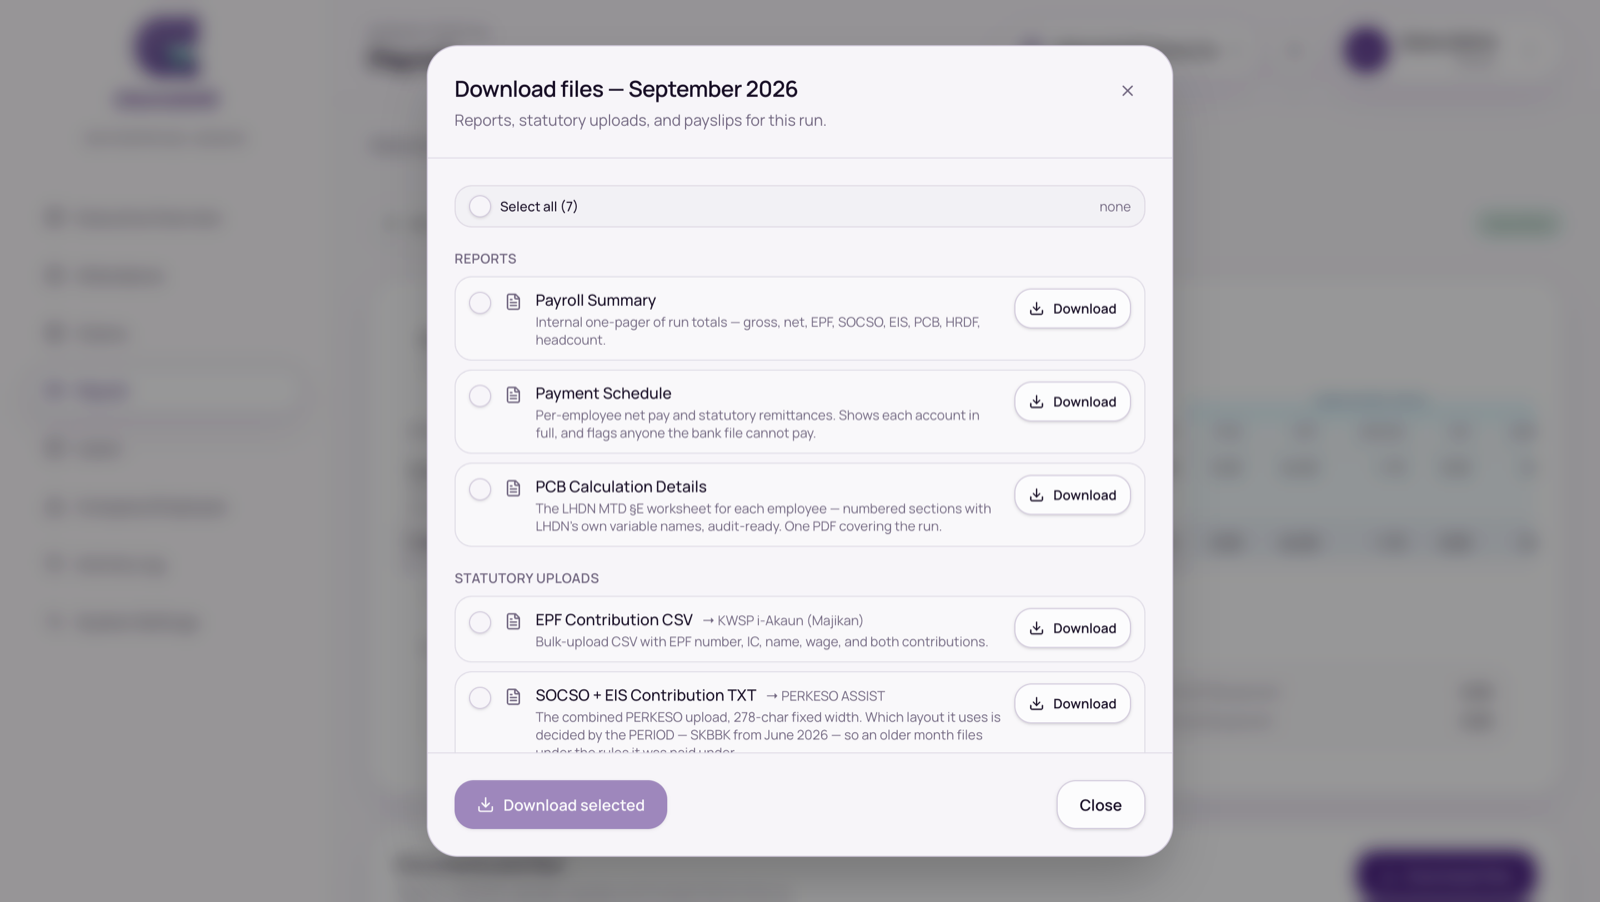
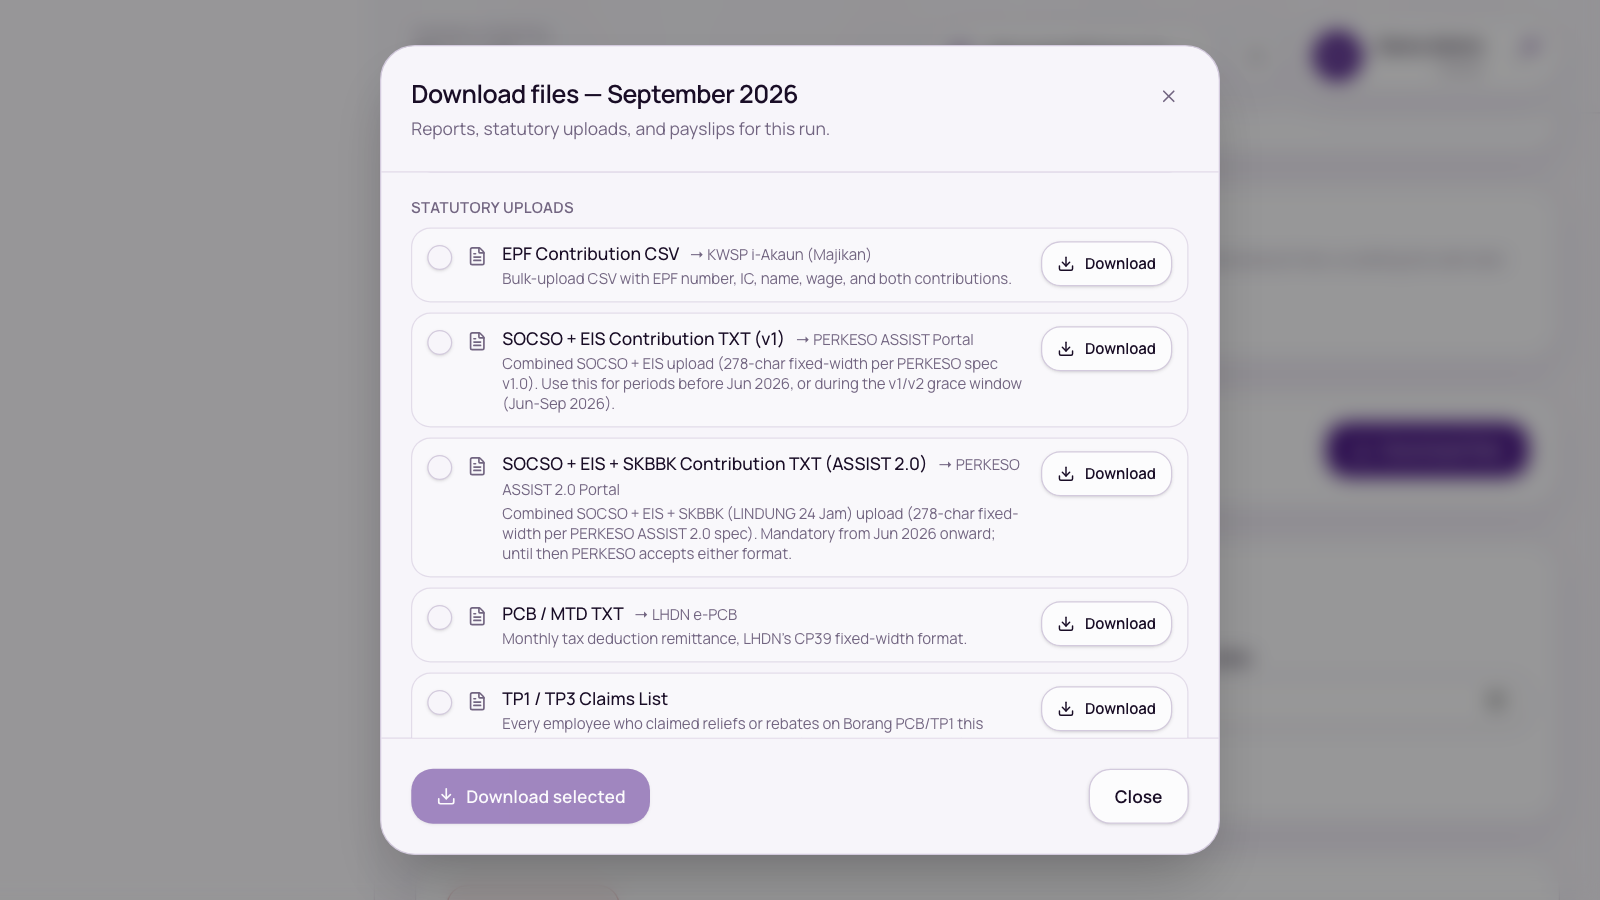
docs(user-guide): retake 12 screenshots and add 5 new ones
Captured with Playwright against the local demo company, at the existing
sizes: the account menus with the new Guide item, Manage Employee, the
employee tabs, Accounts with its Type filter, a paused loan's schedule,
the downloads dialog's statutory files, Annual forms, clock-in's on-site
line and the overtime form and list. New: the employee Import dialog, the
salary-change dialog, admin leave cancellation, the employee's request to
cancel, and a supervisor's cancellation request. Alt text matches each.

diff --git a/user-guide/altomatehr-admin-guide.html b/user-guide/altomatehr-admin-guide.html
@@ -402,7 +402,7 @@
           <p class="shot-cap">Notifications bell</p>
         </div>
         <div class="shot-item">
-          <img src="shots/admin/layout-menu.png" alt="The ⋮ account menu: push notifications, Launch Appraisify, Log out" loading="lazy">
+          <img src="shots/admin/layout-menu.png" alt="The ⋮ account menu: What&#x27;s new, Guide, Launch Appraisify, Log out" loading="lazy">
           <p class="shot-cap">⋮ menu</p>
         </div>
       </div>
@@ -496,7 +496,7 @@
     <figure class="shot" data-place="System Settings">
       <div class="shot-grid" data-orient="screen">
         <div class="shot-item">
-          <img src="shots/admin/accounts-bank.png" alt="System Settings → Accounts: chart of accounts, Expenses / Bank accounts tabs and mileage defaults" loading="lazy">
+          <img src="shots/admin/accounts-bank.png" alt="System Settings → Accounts: the Expenses list with its Type filter (Depreciation, Direct Costs, Expense, Overhead) and Type column" loading="lazy">
           <p class="shot-cap">Accounts</p>
         </div>
         <div class="shot-item">
@@ -625,7 +625,12 @@
     <figure class="shot" data-place="Employees">
       <div class="shot-grid" data-orient="screen">
         <div class="shot-item">
-          <img src="shots/admin/manage-employee.png" alt="Manage Employee with search, role and status filters, and the need-payroll-setup box" loading="lazy">
+          <img src="shots/admin/manage-employee.png" alt="Manage Employee with Import, Export, Salary adjustments and Add employee, the search and filters, and the need-payroll-setup box" loading="lazy">
+          <p class="shot-cap">Manage Employee</p>
+        </div>
+        <div class="shot-item">
+          <img src="shots/admin/employee-import.png" alt="The Import employees dialog: Step 1 templates, Step 2 Keep or Erase existing values for blank cells, Step 3 upload" loading="lazy">
+          <p class="shot-cap">Import</p>
         </div>
       </div>
       <p class="shot-cap shot-cap-main">Manage Employee</p>
@@ -668,6 +673,15 @@
     </ul>
     <p><span class="btn-name">Salary history</span>, under the salary, lists every real change with its date, reason and
       the old and new figure.</p>
+
+    <figure class="shot" data-place="Employees">
+      <div class="shot-grid" data-orient="screen">
+        <div class="shot-item">
+          <img src="shots/admin/salary-change.png" alt="The Why is the salary changing? dialog, from RM 5,500.00 to RM 5,800.00 a month, with Typo correction and Salary adjustment" loading="lazy">
+        </div>
+      </div>
+      <p class="shot-cap shot-cap-main">Why is the salary changing?</p>
+    </figure>
     <h3>Other things worth knowing on the record</h3>
     <ul>
       <li><strong>Malaysian citizens</strong> — PR is off and tax resident is on, and both are locked: a citizen is always
@@ -689,7 +703,7 @@
           <p class="shot-cap">Statutory tab</p>
         </div>
         <div class="shot-item">
-          <img src="shots/admin/employee-employment.png" alt="An employee record on the Employment tab, with compensation and fixed adjustments" loading="lazy">
+          <img src="shots/admin/employee-employment.png" alt="An employee record on the Employment tab, with compensation, Salary history and fixed adjustments" loading="lazy">
           <p class="shot-cap">Employment tab</p>
         </div>
       </div>
@@ -865,6 +879,15 @@
       asked to cancel, cancelling here completes it at once. Cancelling approved <em>unpaid</em> leave marks any open
       payroll draft for those dates for a re-run; a payroll already submitted isn't changed. The cancellation is recorded
       in the <a href="#audit">Activity Log</a>.</p>
+
+    <figure class="shot" data-place="Leave">
+      <div class="shot-grid" data-orient="screen">
+        <div class="shot-item">
+          <img src="shots/admin/leave-cancel.png" alt="The Cancel this approved leave? dialog with the leave, an optional reason, and Cancel leave or Keep it" loading="lazy">
+        </div>
+      </div>
+      <p class="shot-cap shot-cap-main">Cancelling approved leave</p>
+    </figure>
     <p><span class="btn-name">Import</span> brings in entitlements from a spreadsheet. Year rollover and monthly accrual
       run by themselves; the buttons under <em>Maintenance</em> are there if you need to run them early.</p>
     <div class="note tip"><span class="nt">Unpaid leave and payroll</span>
@@ -1010,7 +1033,7 @@
     <figure class="shot" data-place="Files">
       <div class="shot-grid" data-orient="screen">
         <div class="shot-item">
-          <img src="shots/admin/payroll-downloads.png" alt="The Download files dialog with reports and statutory uploads" loading="lazy">
+          <img src="shots/admin/payroll-downloads.png" alt="The Download files dialog: statutory uploads (EPF, both SOCSO + EIS files, PCB) and the TP1 / TP3 Claims List" loading="lazy">
         </div>
       </div>
       <p class="shot-cap shot-cap-main">Downloading the month's files</p>
@@ -1044,7 +1067,7 @@
     <figure class="shot" data-place="Loans">
       <div class="shot-grid" data-orient="screen">
         <div class="shot-item">
-          <img src="shots/admin/loans.png" alt="Payroll → Loans with Record a loan" loading="lazy">
+          <img src="shots/admin/loans.png" alt="Payroll → Loans: a paused loan with Resume and Cancel, and its repayment schedule showing paid and paused months" loading="lazy">
         </div>
       </div>
       <p class="shot-cap shot-cap-main">Loans and advances</p>
@@ -1078,7 +1101,7 @@
     <figure class="shot" data-place="Annual forms">
       <div class="shot-grid" data-orient="screen">
         <div class="shot-item">
-          <img src="shots/admin/annual-forms.png" alt="Payroll → Annual forms with the filing year and the forms listed" loading="lazy">
+          <img src="shots/admin/annual-forms.png" alt="Payroll → Annual forms: Form EA, Form E + CP8D, PCB 2(II) (bulk) and the e-CP8D upload files" loading="lazy">
         </div>
       </div>
       <p class="shot-cap shot-cap-main">Annual tax forms</p>

diff --git a/user-guide/altomatehr-employee-guide.html b/user-guide/altomatehr-employee-guide.html
@@ -488,7 +488,7 @@
     <figure class="shot" data-place="Finding your way">
       <div class="shot-grid" data-orient="phone">
         <div class="shot-item">
-          <img src="shots/employee/account-menu.png" alt="The ⋮ account menu open: Change password, Enable push notifications, Launch Appraisify, Log out" loading="lazy">
+          <img src="shots/employee/account-menu.png" alt="The ⋮ account menu open: Change password, What&#x27;s new, Guide, Launch Appraisify, Log out" loading="lazy">
           <p class="shot-cap">The ⋮ menu</p>
         </div>
         <div class="shot-item">
@@ -538,7 +538,7 @@
     <figure class="shot" data-place="Clocking in">
       <div class="shot-grid" data-orient="phone">
         <div class="shot-item">
-          <img src="shots/employee/clock-in.png" alt="Dashboard → Right now card with a project picked and Tap to Clock In" loading="lazy">
+          <img src="shots/employee/clock-in.png" alt="Dashboard → Right now card with a project picked, the On site line with the distance, and Tap to Clock In" loading="lazy">
           <p class="shot-cap">Before clocking in</p>
         </div>
         <div class="shot-item">
@@ -633,11 +633,11 @@
     <figure class="shot" data-place="Overtime">
       <div class="shot-grid" data-orient="phone">
         <div class="shot-item">
-          <img src="shots/employee/overtime-form.png" alt="The Submit overtime form with the before photo" loading="lazy">
+          <img src="shots/employee/overtime-form.png" alt="The Submit overtime form with a reason and two before-work files attached" loading="lazy">
           <p class="shot-cap">Submit overtime</p>
         </div>
         <div class="shot-item">
-          <img src="shots/employee/overtime-list.png" alt="Attendance → Overtime with a pending item showing Attach after" loading="lazy">
+          <img src="shots/employee/overtime-list.png" alt="Attendance → Overtime: a pending request with its Before and After files and Add more" loading="lazy">
           <p class="shot-cap">Overtime list</p>
         </div>
       </div>
@@ -685,8 +685,12 @@
           <img src="shots/employee/leave-apply.png" alt="The Apply for leave form with a type, dates and an attachment field" loading="lazy">
           <p class="shot-cap">Apply for leave</p>
         </div>
+        <div class="shot-item">
+          <img src="shots/employee/leave-request-cancel.png" alt="The Ask to cancel this leave? dialog with the leave, an optional reason, and Send request or Keep my leave" loading="lazy">
+          <p class="shot-cap">Ask to cancel</p>
+        </div>
       </div>
-      <p class="shot-cap shot-cap-main">Balances and applying</p>
+      <p class="shot-cap shot-cap-main">Balances, applying and asking to cancel</p>
     </figure>
 
     </div>
@@ -847,6 +851,10 @@
         <div class="shot-item">
           <img src="shots/employee/sup-attendance.png" alt="Attendance → Approvals with one employee&#x27;s day expanded" loading="lazy">
           <p class="shot-cap">Attendance approvals</p>
+        </div>
+        <div class="shot-item">
+          <img src="shots/employee/sup-leave-cancel.png" alt="Leave → Approvals with an approved leave tagged Cancellation request, and Approve cancellation or Decline" loading="lazy">
+          <p class="shot-cap">Leave cancellation request</p>
         </div>
       </div>
       <p class="shot-cap shot-cap-main">Approving for your team</p>
